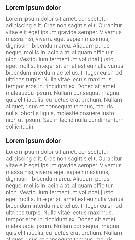
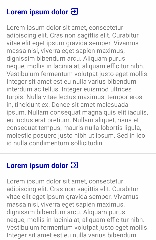
add install mockapp button

diff --git a/app/src/main/java/com/crane/mockappdemo/main/MainActivity.kt b/app/src/main/java/com/crane/mockappdemo/main/MainActivity.kt
@@ -4,15 +4,14 @@ import android.content.Intent
 import android.net.Uri
 import android.os.Bundle
 import android.view.View
-import androidx.coordinatorlayout.widget.CoordinatorLayout
 import androidx.lifecycle.Observer
 import androidx.lifecycle.ViewModelProviders
 import androidx.recyclerview.widget.RecyclerView
 import com.crane.mockapp.annotations.MockAppLayout
 import com.crane.mockapp.annotations.MockAppView
 import com.crane.mockapp.core.MockAppActivity
-import com.crane.mockapp.core.PaddingItemDecoration
-import com.google.android.material.appbar.AppBarLayout
+import android.content.pm.PackageManager
+
 
 @MockAppLayout(projectName = "mockappdemo", layoutName = "main")
 class MainActivity : MockAppActivity() {
@@ -22,6 +21,9 @@ class MainActivity : MockAppActivity() {
 
     @MockAppView
     private lateinit var viewOnGitHubButton: View
+
+    @MockAppView
+    private lateinit var installMockAppButton: View
 
     private lateinit var mainViewModel: MainViewModel
 
@@ -42,7 +44,25 @@ class MainActivity : MockAppActivity() {
             viewUrl("https://github.com/alzhuravlev/MockAppDemo")
         }
 
+        installMockAppButton.setOnClickListener {
+            startActivity(
+                Intent(
+                    Intent.ACTION_VIEW,
+                    Uri.parse("http://play.google.com/store/apps/details?id=com.crane.mockapp")
+                )
+            )
+        }
+
         mainViewModel.onLoadSamples()
+    }
+
+    override fun onStart() {
+        super.onStart()
+        if (isAppInstalled("com.crane.mockapp"))
+            installMockAppButton.visibility = View.GONE
+        else {
+            installMockAppButton.visibility = View.VISIBLE
+        }
     }
 
     fun updateSamples(samples: List<MainItem>) {
@@ -50,11 +70,19 @@ class MainActivity : MockAppActivity() {
     }
 
     fun viewUrl(url: String) {
+        val intent = Intent(Intent.ACTION_VIEW, Uri.parse(url))
+        startActivity(intent)
+    }
+
+    private fun isAppInstalled(uri: String): Boolean {
+        val pm = packageManager
         try {
-            val intent = Intent(Intent.ACTION_VIEW, Uri.parse(url))
-            startActivity(intent)
-        } catch (e: Exception) {
+            pm.getPackageInfo(uri, PackageManager.GET_ACTIVITIES)
+            return true
+        } catch (e: PackageManager.NameNotFoundException) {
         }
+
+        return false
     }
 
 }

diff --git a/app/src/main/java/com/crane/mockappdemo/main/MainAdapter.kt b/app/src/main/java/com/crane/mockappdemo/main/MainAdapter.kt
@@ -23,10 +23,10 @@ class MainAdapter(
         lateinit var name: TextView
 
         @MockAppView
-        lateinit var viewSource: View
+        lateinit var description: TextView
 
         @MockAppView
-        lateinit var description: TextView
+        lateinit var viewSource: View
 
         override fun onViewsReady() {
             itemView.setOnClickListener {
